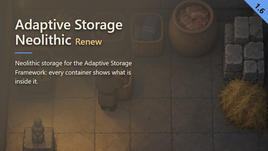
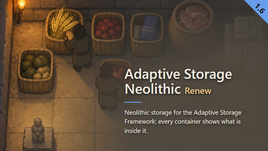
AdaptiveStorageNeolithicRenew: Recompose the preview bottom-right, fix the thanks messages
Preview.png: the title/summary block moves from top-left to bottom-right
(Art/preview.html, veil gradient origin follows), on Virginie's word after
seeing the earlier composition. Rendered with Art/render-preview.cjs
(playwright+sharp installed locally, gitignored, CHROME_PATH pointed at the
installed Chrome instead of downloading one); its own checks still pass:
contrast 6.01/5.35/6.90/6.72, 673 KB. The preference is recorded as a
memory note for future previews, not yet applied to STYLE_RIMWORLD.md itself.

PUBLICATION.md: the two thanks messages (original mod, framework) rewritten
in a warmer tone, in Steam BBCode, both now under 1000 characters (846 and
477). Harmony/Brrainz dropped from the list: comments are disabled on his
Workshop page.

diff --git a/Art/preview.html b/Art/preview.html
@@ -9,10 +9,10 @@
   .frame { position: relative; width: 896px; height: 504px;
     background: url("Preview.png") 0 -43.5px / 896px auto no-repeat; }
   .veil { position: absolute; inset: 0;
-    background: radial-gradient(ellipse 900px 680px at top left,
+    background: radial-gradient(ellipse 900px 680px at bottom right,
       rgb(var(--veil-rgb) / .96) 0%, rgb(var(--veil-rgb) / .90) 50%,
       rgb(var(--veil-rgb) / 0) 100%); }
-  .text { position: absolute; left: 50px; top: 54px; color: var(--inkPrimary);
+  .text { position: absolute; right: 50px; bottom: 54px; color: var(--inkPrimary);
     text-shadow: 0 3px 10px rgb(0 0 0 / .75); }
   h1 { margin: 0; font-size: 46px; font-weight: 600; line-height: 1.1; letter-spacing: 0; }
   h1 > .suffix { font-size: .65em; color: var(--inkSecondary); }

diff --git a/STATUS.md b/STATUS.md
@@ -26,11 +26,11 @@ remaining:
   - not covered by any scenario, on purpose: the architect menu itself (checked statically), frames of a chantier under construction, and the inspect-pane description card. Nothing else is left to a manual pass once the unplayed features above have run.
   - unverified (done -> tested): Full English/French game load of the translation hook, blueprints, frames, finished buildings, plinth art and UI, in developer mode.
   - unverified (done -> tested): Execute the TESTING.md scenarios in game on a new game and an existing save, inspect logs, run the Pickle suite and open its @review captures. Options, persistence and MainButtons shortcut are not applicable (no settings).
-  - publishing (tested -> prepublished), state 2026-09-22 10:15: DONE: repository pushed, DLL matches the sources; the About.xml description is in the required order (body, IF I GO QUIET with the adoption clause word for word, AI-GENERATED naming DALL-E (OpenAI) by name, THANKS with the redundant Claude Code line removed on Virginie's word, attribution and licence line, "Source code on GitHub" link last); PUBLICATION.md written (order of the six page pictures, three thanks messages, dependencies and DLC decided from the sources, adult-content reading with the human-meat pot texture opened, what to do after the upload); the six Workshop pictures produced (feature 11, 6 of 6 passed, `tests/pickle-run-2026-09-22-workshop-captures/`), opened, and hand-cropped into `Art/WorkshopScreenshots/` to remove the fixture colony bleeding into frame — a colour-tint seam from the colony's home-area zone and the map's own scattered rock decoration remain, accepted as-is by owner decision rather than rerun; the raw frames stay under `.build/` for reference. The Workshop item itself was created out of this order this morning (see the section above): `About.xml`'s description had already gone to Steam at 09:11, before the THANKS fix, so any of today's wording corrections apply to the live page only by hand, never by re-running `SetItemDescription`. NOT DONE: tag v1.0.0 and the GitHub release with the changelog (outward action, waits for the owner); the adult-content boxes, now answerable from the real page images; uploading the six images to the Steam page; the thanks messages, posted after the item is public and once she confirms the reading above.
+  - publishing (tested -> prepublished), state 2026-09-22 10:15: DONE: repository pushed, DLL matches the sources; the About.xml description is in the required order (body, IF I GO QUIET with the adoption clause word for word, AI-GENERATED naming DALL-E (OpenAI) by name, THANKS with the redundant Claude Code line removed on Virginie's word, attribution and licence line, "Source code on GitHub" link last); PUBLICATION.md written and corrected (order of the six page pictures, two thanks messages under 1000 characters each in a fan tone, in BBCode — Harmony dropped, comments disabled on his page — dependencies and DLC decided from the sources, adult-content reading with the human-meat pot texture opened, what to do after the upload); `Preview.png` recomposed on Virginie's word, its title/summary block moved bottom-right instead of top-left (`Art/preview.html`, veil gradient origin moved to match), rendered with `node Art/render-preview.cjs` (local `playwright`+`sharp`, gitignored), contrast and size checks still pass (h1 6.01, suffix 5.35, summary 6.90, badge 6.72, 673 KB); the six Workshop pictures produced (feature 11, 6 of 6 passed, `tests/pickle-run-2026-09-22-workshop-captures/`), opened, and hand-cropped into `Art/WorkshopScreenshots/` to remove the fixture colony bleeding into frame — a colour-tint seam from the colony's home-area zone and the map's own scattered rock decoration remain, accepted as-is by owner decision rather than rerun; the raw frames stay under `.build/` for reference. The Workshop item itself was created out of this order this morning (see the section above): `About.xml`'s description had already gone to Steam at 09:11, before the THANKS fix, so any of today's wording corrections apply to the live page only by hand, never by re-running `SetItemDescription`. NOT DONE: tag v1.0.0 and the GitHub release with the changelog (outward action, waits for the owner); the adult-content boxes, now answerable from the real page images; uploading the six images to the Steam page; the thanks messages, posted after the item is public and once she confirms the reading above.
   - optional: case-sensitive runtime check of the Russian DefInjected folder (Steam Deck). Russian vacstone coverage was completed on 2026-09-21 (six entries, written by Claude from the official Odyssey term, not reviewed by a Russian speaker; disclosure to repeat in the AI-GENERATED section at prepublished).
 session:      local_db1227c9-d5d1-40e9-991f-1efee093b86b
 updated:      2026-09-22
-preview_audit: complete
+preview_audit: complete (recomposed 2026-09-22: text block moved bottom-right on owner's word; contrast and size re-checked by Art/render-preview.cjs, still passes)
 modicon_audit: complete
 ---
 

diff --git a/PUBLICATION.md b/PUBLICATION.md
@@ -39,25 +39,22 @@ redo after each change), and the research window, which shows only the framework
 Post after the item is public: a link to a private item opens for nobody. Under 1000 characters each, the Steam comment limit. BBCode works
 in comments, and a bare Workshop item URL turns into a thumbnail. `THIS_ITEM` stands for this mod's own URL, known only after the upload.
 
-**Adaptive Storage Neolithic Module** (the original, https://steamcommunity.com/sharedfiles/filedetails/?id=3033901895), for Soul, Phaneron and bradson:
+**No message for Harmony/Brrainz**: his Workshop page has comments disabled (checked 2026-09-22; same for Achtung!'s, noted for future
+reference). The AI-GENERATED/THANKS section of the description already credits him; nothing more to post.
 
-> Thank you for this module, and for licensing it under MIT. I brought it forward to 1.6 as **Adaptive Storage Neolithic Renew** and changed
-> almost nothing: the buildings, art and stats are yours. I fixed the Russian folder that Linux and the Steam Deck were dropping, added
-> French and Russian for vacstone, translated the buildings of other mods' stones, and made a stone chunk with no colour, the
-> Biomes! Caverns crash reported here in May, get no buildings instead of crashing (checked against the framework's generator, not yet with that
-> mod). The original stays declared incompatible. Credit is in the description and ATTRIBUTION.md. THIS_ITEM
+**Adaptive Storage Neolithic Module** (the original, https://steamcommunity.com/sharedfiles/filedetails/?id=3033901895), for Soul, Phaneron and bradson. 846 characters:
 
-**Adaptive Storage Framework** (https://steamcommunity.com/sharedfiles/filedetails/?id=3033901359), for bradson:
+```
+Hey! Thank you SO much for this module and for setting it MIT — that's the rare kind of open that made this whole port possible. I brought Adaptive Storage Neolithic forward to 1.6 as [b]Adaptive Storage Neolithic Renew[/b] and honestly changed almost nothing, because it didn't need it: the buildings, the art, the stats, all yours. Along the way I fixed the Russian folder that Linux/Steam Deck players were silently losing, finished French and Russian for vacstone, taught buildings made from other mods' stones to speak French too, and stopped a stone chunk with no colour (hi, Biomes! Caverns crystal chunk!) from crashing the game instead of just... not building anything. The original stays declared incompatible, credit's all yours in the description and in ATTRIBUTION.md. Thanks again for making something worth keeping alive!
+THIS_ITEM
+```
 
-> Thank you for the framework: every container of this module draws what it holds because of it. I ported the Neolithic module to 1.6 as
-> **Adaptive Storage Neolithic Renew** and tested it in a running game on top of your 1.6 build, with Core, Odyssey and a third-party stone
-> mod loaded: no error. It reads your `GraphicsDef` and your stone generators as they are. THIS_ITEM
+**Adaptive Storage Framework** (https://steamcommunity.com/sharedfiles/filedetails/?id=3033901359), for bradson. 477 characters:
 
-**Harmony** (https://steamcommunity.com/sharedfiles/filedetails/?id=2009463077), for Brrainz (Andreas Pardeike):
-
-> Thank you for Harmony. A mod of mine uses one postfix on the language injection so that buildings generated at load time are translated
-> before the game copies their labels onto blueprints and frames: **Adaptive Storage Neolithic Renew**. It ran in a real game, French, English
-> and Russian, and the blueprint reads its French name. THIS_ITEM
+```
+This framework is the actual magic — every single container in my module draws what's inside it because of you. I ported the Neolithic module to 1.6 as [b]Adaptive Storage Neolithic Renew[/b] and ran it in a real game on top of your 1.6 build, Core + Odyssey + a random third-party stone mod thrown in, zero errors. Reads your GraphicsDefs and your stone generators exactly as they are, no hacks needed. Thank you for building something this solid to build on top of!
+THIS_ITEM
+```
 
 ## 3. Dependencies and DLC to declare
 
@@ -89,7 +86,7 @@ exist yet and must be opened before the boxes are answered for good. The boxes a
 - Steam creates every item **private**: RimWorld never calls `SetItemVisibility`. Subscribe to the item, test it, then make it public by hand.
 - Tag `v1.0.0` and a GitHub release carrying the `CHANGELOG.md`. Nothing was ever tagged or published, so the `[Unreleased]` section becomes
   `[1.0.0]` with its date on the day of the tag.
-- Fill `workshop:` in `STATUS.md` with the item id, and post the three messages above.
+- Fill `workshop:` in `STATUS.md` with the item id, and post the two messages above (none for Harmony: comments disabled).
 
 ## State on 2026-09-22
 
